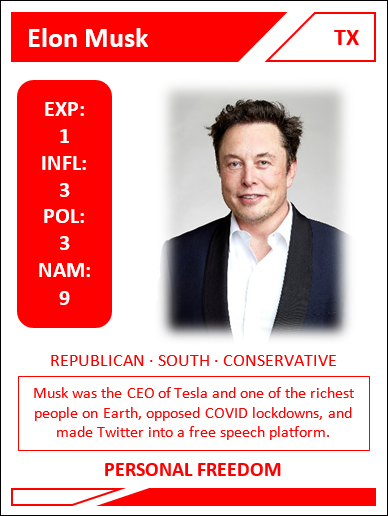
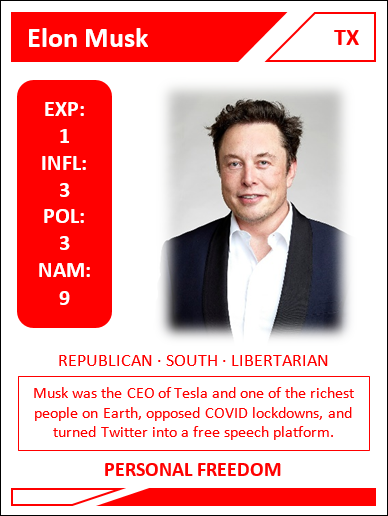
1/10 9:00 PM Kevin PC

Changed region(s): [[0.1237, 0.6822, 0.866, 0.7132], [0.3711, 0.8062, 0.8351, 0.8682], [0.1237, 0.8062, 0.3711, 0.8682]]

diff --git a/Election Game/src/main/java/org/cis120/electiongame/CardData.java b/Election Game/src/main/java/org/cis120/electiongame/CardData.java
@@ -1446,7 +1446,7 @@ public class CardData {
             "Katie Britt", "South", 2, 3, 2, 1, "Conservative", "Traditional Morality"
     );
     static President chuckSchumer = new President(
-            "Chuck Schumer", "Northeast", 8, 1, 4, 4, "Progressive", "Social Programs"
+            "Chuck Schumer", "Northeast", 8, 1, 5, 4, "Progressive", "Social Programs"
     );
     static President kathyHochul = new President(
             "Kathy Hochul", "Northeast", 4, 1, 2, 2, "Progressive", "Social Liberalism"
@@ -1479,18 +1479,17 @@ public class CardData {
             "Brett Favre", "South", 1, 1, 1, 5, "Conservative", "Tax Cuts"
     );
     static President elonMusk = new President(
-            "Elon Musk", "South", 1, 3, 3, 9, "Conservative", "Personal Freedom"
+            "Elon Musk", "South", 1, 3, 3, 9, "Libertarian", "Personal Freedom"
     );
-    static President gavinNewsome = new President(
-            "Gavin Newsome", "West", 3, 6, 3, 4, "Progressive", "Social Liberalism"
+    static President gavinNewsom = new President(
+            "Gavin Newsom", "West", 3, 6, 3, 4, "Progressive", "Social Liberalism"
     );
     static President leBronJames = new President(
             "LeBron James", "Midwest", 1, 2, 1, 9, "Progressive", "Personal Freedom"
     );
     static President raphaelWarnock = new President(
             "Raphael Warnock", "South", 2, 6, 2, 3, "Progressive", "Egalitarianism"
-    );
-    
+    );   
     static President seanPatrickMaloney = new President(
             "Sean Patrick Maloney", "Northeast", 3, 1, 1, 1, "Progressive", "Social Liberalism"
     );
@@ -1517,6 +1516,24 @@ public class CardData {
     
     static President cherylJohnson = new President(
             "Cheryl Johnson", "Northeast", 10, 10, 1, 1, "Progressive", "Law and Order"
+    );
+    static President mikeLee = new President(
+            "Mike Lee", "West", 4, 1, 5, 2, "Libertarian", "Limited Government"
+    );
+    static President jdVance = new President(
+            "J.D. Vance", "West", 4, 1, 5, 2, "Populist", "Anti-Establishment"
+    );
+    static President kevinMcCarthy = new President(
+            "Kevin McCarthy", "West", 8, 1, 4, 4, "Conservative", "Establishment"
+    );
+    static President nancyPelosi = new President(
+            "Nancy Pelosi", "West", 9, 1, 4, 5, "Progressive", "Social Programs"
+    );
+    static President philMurphy = new President(
+            "Phil Murphy", "Northeast", 3, 1, 3, 2, "Progressive", "Regulation"
+    );
+    static President dickDurbin = new President(
+            "Dick Durbin", "Midwest", 8, 1, 3, 2, "Progressive", "Open Borders"
     );
   
 
@@ -2378,7 +2395,7 @@ public class CardData {
         nonpresidents.add(brianKemp);
         nonpresidents.add(brettFavre);
         nonpresidents.add(elonMusk);
-        nonpresidents.add(gavinNewsome);
+        nonpresidents.add(gavinNewsom);
         nonpresidents.add(leBronJames);
         nonpresidents.add(raphaelWarnock);
         nonpresidents.add(seanPatrickMaloney); 
@@ -2387,8 +2404,12 @@ public class CardData {
         nonpresidents.add(mikeLawler);
         nonpresidents.add(georgeSantos);
         nonpresidents.add(susanCollins);
-
-
+        nonpresidents.add(mikeLee);
+        nonpresidents.add(jdVance);
+        nonpresidents.add(kevinMcCarthy);
+        nonpresidents.add(nancyPelosi);
+        nonpresidents.add(philMurphy);
+        nonpresidents.add(dickDurbin);
         
 
       
